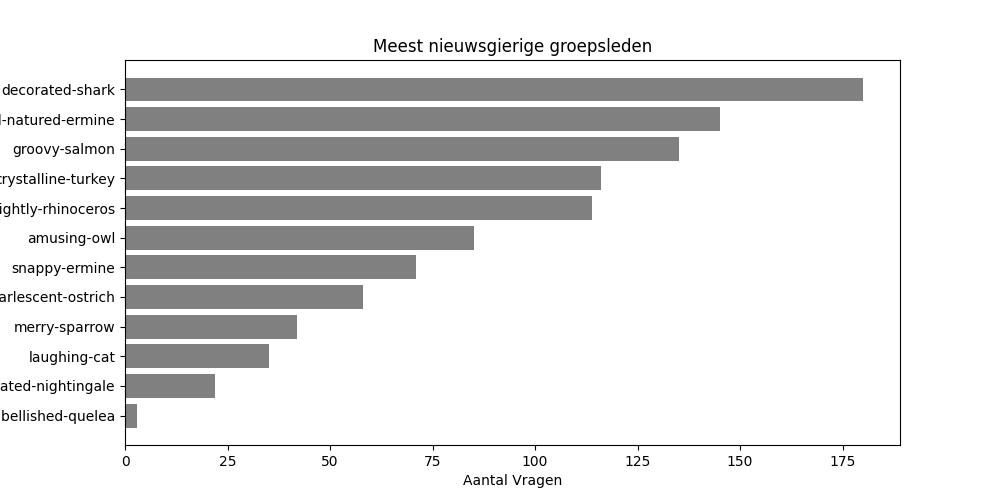
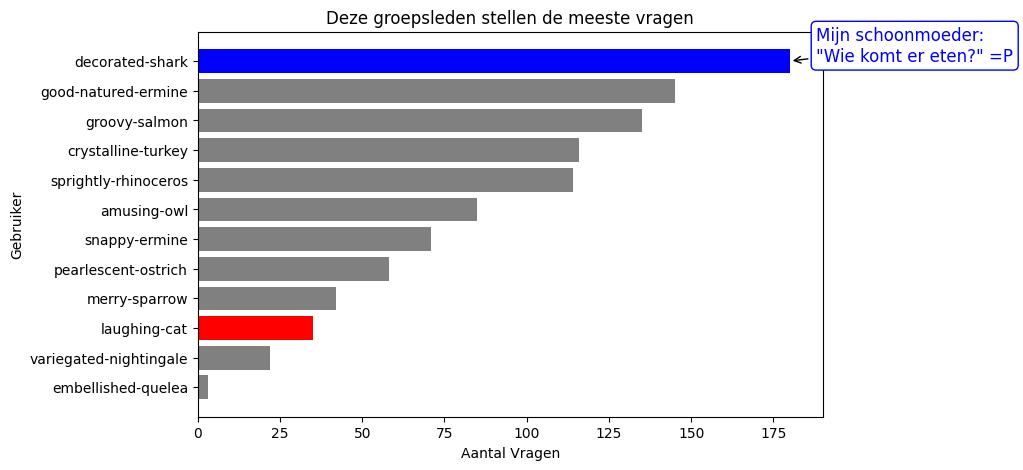
verbeter story van visual

Changed region(s): [[0.0, 0.0298, 1.0, 0.983]]

diff --git a/src/my_module/les2.py b/src/my_module/les2.py
@@ -40,16 +40,44 @@ def generate_question_bar_chart(df: pd.DataFrame, output_path: Path):
     vraag_count = df.groupby("author")["questions"].sum().reset_index()
     vraag_count = vraag_count.sort_values(by="questions", ascending=False)
     vraag_count = vraag_count[vraag_count["questions"] > 0]
-    
+
+    # "laughing-cat" wordt rood, "decorated-shark" wordt blauw
+    colors = [
+        "red" if author == "laughing-cat" else 
+        "blue" if author == "decorated-shark" else 
+        "grey" 
+        for author in vraag_count["author"]
+    ]
+
     plt.figure(figsize=(10, 5))
-    plt.barh(vraag_count["author"], vraag_count["questions"], color='grey')
+    bars = plt.barh(vraag_count["author"], vraag_count["questions"], color=colors)
     plt.xlabel("Aantal Vragen")
     plt.ylabel("Gebruiker")
-    plt.title("Meest nieuwsgierige groepsleden")
-    plt.gca().invert_yaxis()
-    
-    output_path.parent.mkdir(parents=True, exist_ok=True)
-    plt.savefig(output_path)
+    plt.title("Deze groepsleden stellen de meeste vragen")
+
+    plt.gca().invert_yaxis()  # Hoogste waarde bovenaan
+
+    # y-positie van "decorated-shark"  (door chatGPT)
+    if "decorated-shark" in vraag_count["author"].values:
+        y_pos = list(vraag_count["author"]).index("decorated-shark")
+        x_value = vraag_count["questions"].iloc[y_pos]  # Aantal vragen van decorated-shark 
+
+        plt.xlim(right=x_value + 10)
+        plt.annotate(
+            "Mijn schoonmoeder:\n\"Wie komt er eten?\" =P",
+            xy=(x_value, y_pos),  # Pijl naar de bar
+            xytext=(x_value + 8, y_pos),  # Tekst nog verder naar rechts
+            arrowprops=dict(facecolor='blue', arrowstyle="->"),
+            fontsize=12,
+            color="blue",
+            bbox=dict(boxstyle="round,pad=0.3", edgecolor="blue", facecolor="white")
+        )
+
+    # Extra marges om te zorgen dat de tekst niet buiten de afbeelding valt
+    plt.subplots_adjust(right=0.75)  
+    plt.savefig(output_path, bbox_inches="tight")  # Zorgt dat alles in beeld blijft
+
     logger.info(f"Afbeelding opgeslagen als: {output_path}")
+    
     print("Grafiek gemaakt")
 
